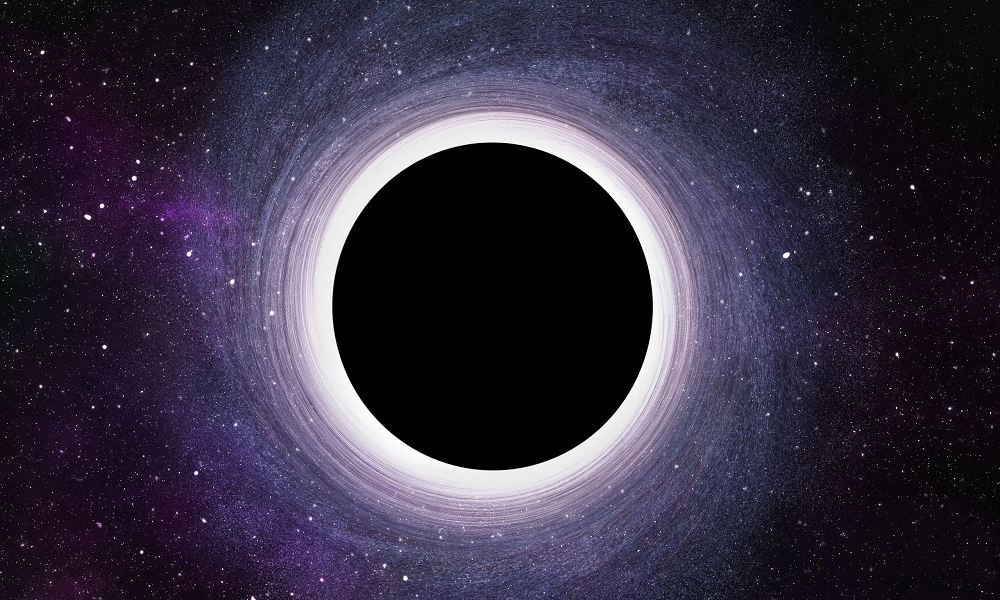
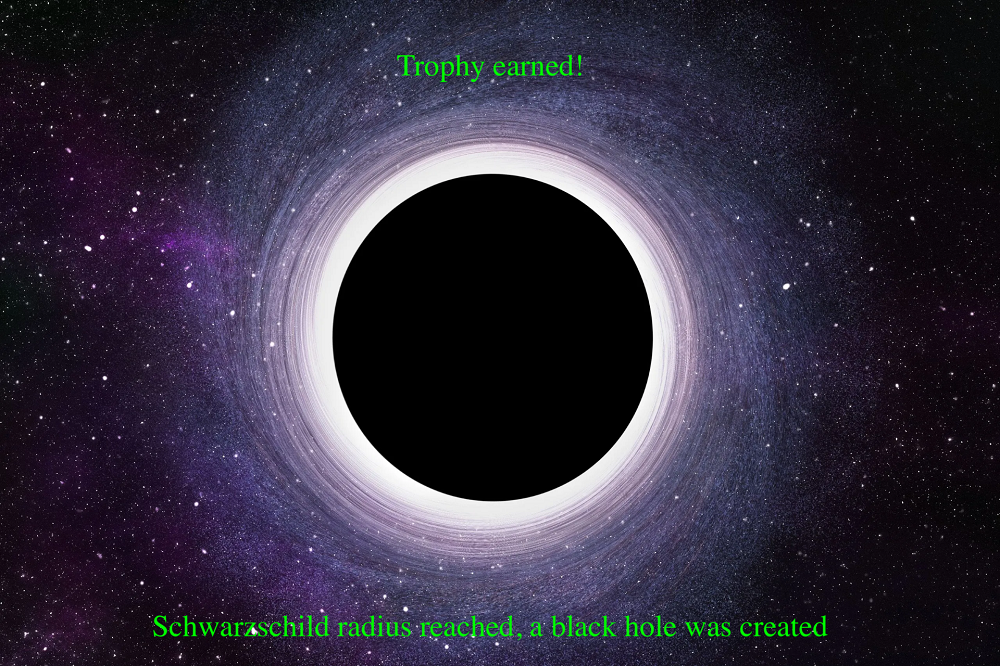
Fix a bug in the easter egg

diff --git a/simulation.cpp b/simulation.cpp
@@ -1,12 +1,10 @@
 #include "simulation.hpp"
-#include <iostream>
-#include <memory>
 #include <string>
 
 namespace pf {
 
 void simulation_one_flock(double n, float d, float ds, float s, float a,
-                          float c, float field_of_view, int easter)
+                          float c, float field_of_view, bool easter)
 {
   bool easter_egg      = false;
   constexpr int pixelx = 1000;
@@ -44,15 +42,15 @@ void simulation_one_flock(double n, float d, float ds, float s, float a,
       }
     }
 
-    window.clear(sf::Color(0, 160, 200, 200));
-    window.draw(sprite);
-
-    if (easter == 1) {
+    if (easter) {
       if (pf::mean_distance(flock) < 0.0028) {
         window.close();
         easter_egg = true;
       }
     }
+
+    window.clear(sf::Color(0, 160, 200, 200));
+    window.draw(sprite);
 
     for (Boid const& boid : flock) {
       sf::Vector2f pixelPos = real_to_pixel(boid.get_pos().x, boid.get_pos().y,
@@ -95,17 +93,17 @@ void simulation_one_flock(double n, float d, float ds, float s, float a,
 
     window.display();
   }
+
   if (easter_egg) {
-    std::cout << ";)" << '\n';
+    sf::RenderWindow window_easter(sf::VideoMode(1000, 666), "Easter egg");
+    window_easter.setPosition(sf::Vector2i(10, 40));
+    window_easter.setFramerateLimit(2);
     sf::Texture texture_easter;
     if (!texture_easter.loadFromFile("easter_egg.png")) {
       throw std::runtime_error{"Cannot load background image"};
     }
     sf::Sprite sprite_easter;
-    sprite.setTexture(texture_easter);
-
-    sf::RenderWindow window_easter(
-        sf::VideoMode(texture_easter.getSize().x, texture_easter.getSize().y), "Easter egg");
+    sprite_easter.setTexture(texture_easter);
     while (window_easter.isOpen()) {
       sf::Event event_easter;
       while (window_easter.pollEvent(event_easter)) {
@@ -113,7 +111,7 @@ void simulation_one_flock(double n, float d, float ds, float s, float a,
           window_easter.close();
         }
       }
-
+      window_easter.clear();
       window_easter.draw(sprite_easter);
       window_easter.display();
     }
@@ -375,6 +373,12 @@ void simulation_two_flocks(double n1, double n2, float d, float ds, float s,
   sf::Sprite sprite;
   sprite.setTexture(texture);
 
+  sf::Clock clock;
+  sf::Font font;
+  if (!font.loadFromFile("cambria.ttc")) {
+    throw std::runtime_error{"Cannot load font"};
+  }
+
   while (window.isOpen()) {
     sf::Event event;
     while (window.pollEvent(event)) {
@@ -431,6 +435,20 @@ void simulation_two_flocks(double n1, double n2, float d, float ds, float s,
                                  field_of_view);
     random_boost(flock2, 0.002f, 0.01f);
     speed_control(flock2, 2.0f);
+
+    sf::Time current_time = clock.restart();
+    float time_lapse      = current_time.asSeconds();
+    float fps             = 1.f / (time_lapse);
+    std::string fps_complete{std::to_string(fps)};
+    std::string fps_approx{fps_complete.substr(0, 2)};
+    fps_approx += " FPS";
+    sf::Text text;
+    text.setFont(font);
+    text.setString(fps_approx);
+    text.setCharacterSize(16);
+    text.setFillColor(sf::Color::Green);
+    text.setPosition(940.F, 10.F);
+    window.draw(text);
 
     window.display();
   }

diff --git a/main.cpp b/main.cpp
@@ -207,12 +207,12 @@ int main()
           throw std::runtime_error{"The field of view must be an angle defined "
                                    "in the range [0°, 360°]"};
         }
-        pf::simulation_one_flock(n, d, ds, s, a, c, field_of_view, 0);
+        pf::simulation_one_flock(n, d, ds, s, a, c, field_of_view, false);
         std::cout << '\n' << '\n';
         return EXIT_SUCCESS;
       } else if (op == std::string{"c"}) {
         pf::simulation_one_flock(2000, 0.03f, 0.005f, 1.0f, 0.2f, 0.01f, 270.0f,
-                                 0);
+                                 false);
         std::cout << '\n' << '\n';
         return EXIT_SUCCESS;
       } else if (op == std::string{"d"}) {
@@ -431,10 +431,9 @@ int main()
           throw std::runtime_error{"The field of view must be an angle defined "
                                    "in the range [0°, 360°]"};
         }
-        pf::simulation_one_flock(n, d, ds, s, a, c, field_of_view, 1);
+        pf::simulation_one_flock(n, d, ds, s, a, c, field_of_view, true);
         std::cout << '\n' << '\n';
         return EXIT_SUCCESS;
-
       } else {
         std::cout << "Unvalid character.\nReinsert: ";
         op = {};

diff --git a/simulation.hpp b/simulation.hpp
@@ -14,7 +14,7 @@ inline sf::Vector2f real_to_pixel(float x, float y, float scale_factor_x,
 
 inline float calculate_rotation_angle(float direction_x, float direction_y)
 {
-  return std::atan2(direction_y, direction_x) * 180.0f / pi_f; 
+  return std::atan2(direction_y, direction_x) * 180.0f / pi_f;
 }
 
 inline sf::Vector2f set_graph_point(int i, float value_y, int size,
@@ -28,7 +28,7 @@ inline sf::Vector2f set_graph_point(int i, float value_y, int size,
 }
 
 void simulation_one_flock(double n, float d, float ds, float s, float a,
-                          float c, float field_of_view, int easter);
+                          float c, float field_of_view, bool easter);
 
 void graphs(double n, float d, float ds, float s, float a, float c,
             float field_of_view);
